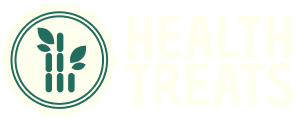
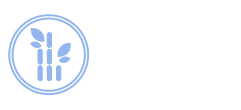
Alterando cor da empresa cliente health treats

Changed region(s): [[0.029, 0.0818, 0.3776, 0.8727]]

diff --git a/css/style.css b/css/style.css
@@ -76,8 +76,14 @@ header #home-icon{
 }
 
 #home-icon:hover{
-    opacity: 1; /*Transparência*/
     content: url('homepagehover.png'); /*Substitui a imagem presente no site, por essa*/
+    transition: 400ms;
+    opacity: 0.5;
+}
+
+#home-icon:not(:hover){
+    transition: 1000ms;
+    opacity: 1;
 }
 
 header .menu{
@@ -113,12 +119,19 @@ header .menu li a:not(:hover){
     header .logo img{
         padding-top: .8em;
     }
+    header .menu li a{
+        padding: 0px;
+    }
 }
 
-@media (min-width: 510px) and (max-width: 768px){
+@media (min-width: 510px) and (max-width: 968px){
     header .logo img{
         padding-top: .8em;
     }
+    header .menu li a{
+        padding: 4px;
+    }
+    
 }
 
 /*Home*/
@@ -801,7 +814,7 @@ header .menu li a:not(:hover){
     display: flex;
     justify-content: center;
     align-items: center;
-    background-color: #236d5E;
+    background-color: #93B6EE;
     width: 35em;
     height: 20em;
     border-radius: 2em;
@@ -885,7 +898,7 @@ header .menu li a:not(:hover){
     }
 
     #Clientes .client-containers .client-1 img{
-        width: 55%;
+        width: 45%;
         height: 8em;
     }
 
@@ -936,6 +949,11 @@ header .menu li a:not(:hover){
 /*Animação do mapa*/
 #Local iframe:hover{
     transform: translateY(-1%);
+    transition: 400ms; 
+}
+
+/*Animação do mapa*/
+#Local iframe:not(:hover){
     transition: 400ms; 
 }
 
@@ -1051,6 +1069,10 @@ footer .redes .menu img:hover{
     transition: 400ms;
 }
 
+footer .redes .menu img:not(:hover){
+    transition: 400ms;
+}
+
 @media (min-width: 800px) {
     footer .redes .menu img {
         width: 100%;
@@ -1067,4 +1089,131 @@ footer .redes .menu img:hover{
     footer .info .brand {
         flex-direction: row;
     }
+}
+
+.container {
+    width: 1000px;
+    position: relative;
+    display: flex;
+    justify-content: space-between;
+}
+
+.container .card {
+    position: relative;
+    border-radius: 10px;
+}
+
+.container .card .icon {
+    position: absolute;
+    top: 0;
+    left: 0;
+    width: 100%;
+    height: 100%;
+    background: #f00;
+    transition: 0.7s;
+    z-index: 1;
+}
+
+.container .card:nth-child(1) .icon {
+    background: #e07768;
+}
+
+.container .card:nth-child(2) .icon {
+    background: #6eadd4;
+}
+
+.container .card:nth-child(3) .icon {
+    background: #4aada9;
+}
+
+
+.container .card .icon .fa {
+    position: absolute;
+    top: 50%;
+    left: 50%;
+    transform: translate(-50%, -50%);
+    font-size: 80px;
+    transition: 0.7s;
+    color: #fff;
+}
+
+i {
+    position: absolute;
+    top: 50%;
+    left: 50%;
+    transform: translate(-50%, -50%);
+    font-size: 80px;
+    transition: 0.7s;
+    color: #fff;
+}
+
+.container .card .face {
+    width: 300px;
+    height: 200px;
+    transition: 0.5s;
+}
+
+.container .card .face.face1 {
+    position: relative;
+    background: #333;
+    display: flex;
+    justify-content: center;
+    align-items: center;
+    z-index: 1;
+    transform: translateY(100px);
+}
+
+.container .card:hover .face.face1{
+    background: #ff0057;
+    transform: translateY(0px);
+}
+
+.container .card .face.face1 .content {
+    opacity: 1;
+    transition: 0.5s;
+}
+
+.container .card:hover .face.face1 .content {
+    opacity: 1;
+}
+
+.container .card .face.face1 .content i{
+    max-width: 100px;
+}
+
+.container .card .face.face2 {
+    position: relative;
+    background: #fff;
+    display: flex;
+    justify-content: center;
+    align-items: center;
+    padding: 20px;
+    box-sizing: border-box;
+    box-shadow: 0 20px 50px rgba(0,0,0,0.8);
+    transform: translateY(-100px);
+}
+
+.container .card:hover .face.face2{
+    transform: translateY(0);
+}
+
+.container .card .face.face2 .content p {
+    margin: 0;
+    padding: 0;
+    text-align: center;
+    color: #414141;
+}
+
+.container .card .face.face2 .content h3 {
+    margin: 0 0 10px 0;
+    padding: 0;
+    color: #fff;
+    font-size: 24px;
+    text-align: center;
+    color: #414141;
+} 
+
+.container a {
+    text-decoration: none;
+    color: #414141;
 }

diff --git a/index.html b/index.html
@@ -38,9 +38,11 @@
             <div class="container-elements">
                 <h3>Precisando de uma nova empresa de software?</h3>
                 <h1>Diga olá a sua nova empresa de software!</h1>
+                <a href="https://linktr.ee/catlopers_dev">
                 <button id="call-button">
                     Contate-nos
                 </button>
+                </a>
             </div>
         </div>
     </section>
@@ -141,7 +143,6 @@
         <br>
         <iframe src="https://www.google.com/maps/embed?pb=!1m18!1m12!1m3!1d3657.418721473497!2d-46.692775123811614!3d-23.55340047880534!2m3!1f0!2f0!3f0!3m2!1i1024!2i768!4f13.1!3m3!1m2!1s0x94ce57bdfc10e2e7%3A0xddc4b1f080b96982!2sR.%20Purpurina%2C%20195%20-%20Sumarezinho%2C%20S%C3%A3o%20Paulo%20-%20SP%2C%2005435-030!5e0!3m2!1sen!2sbr!4v1721687282871!5m2!1sen!2sbr" width="600" height="450" style="border:0;" allowfullscreen="" loading="lazy" referrerpolicy="no-referrer-when-downgrade"></iframe>
     </section>
-
 
     <footer>
         <div class="info">
